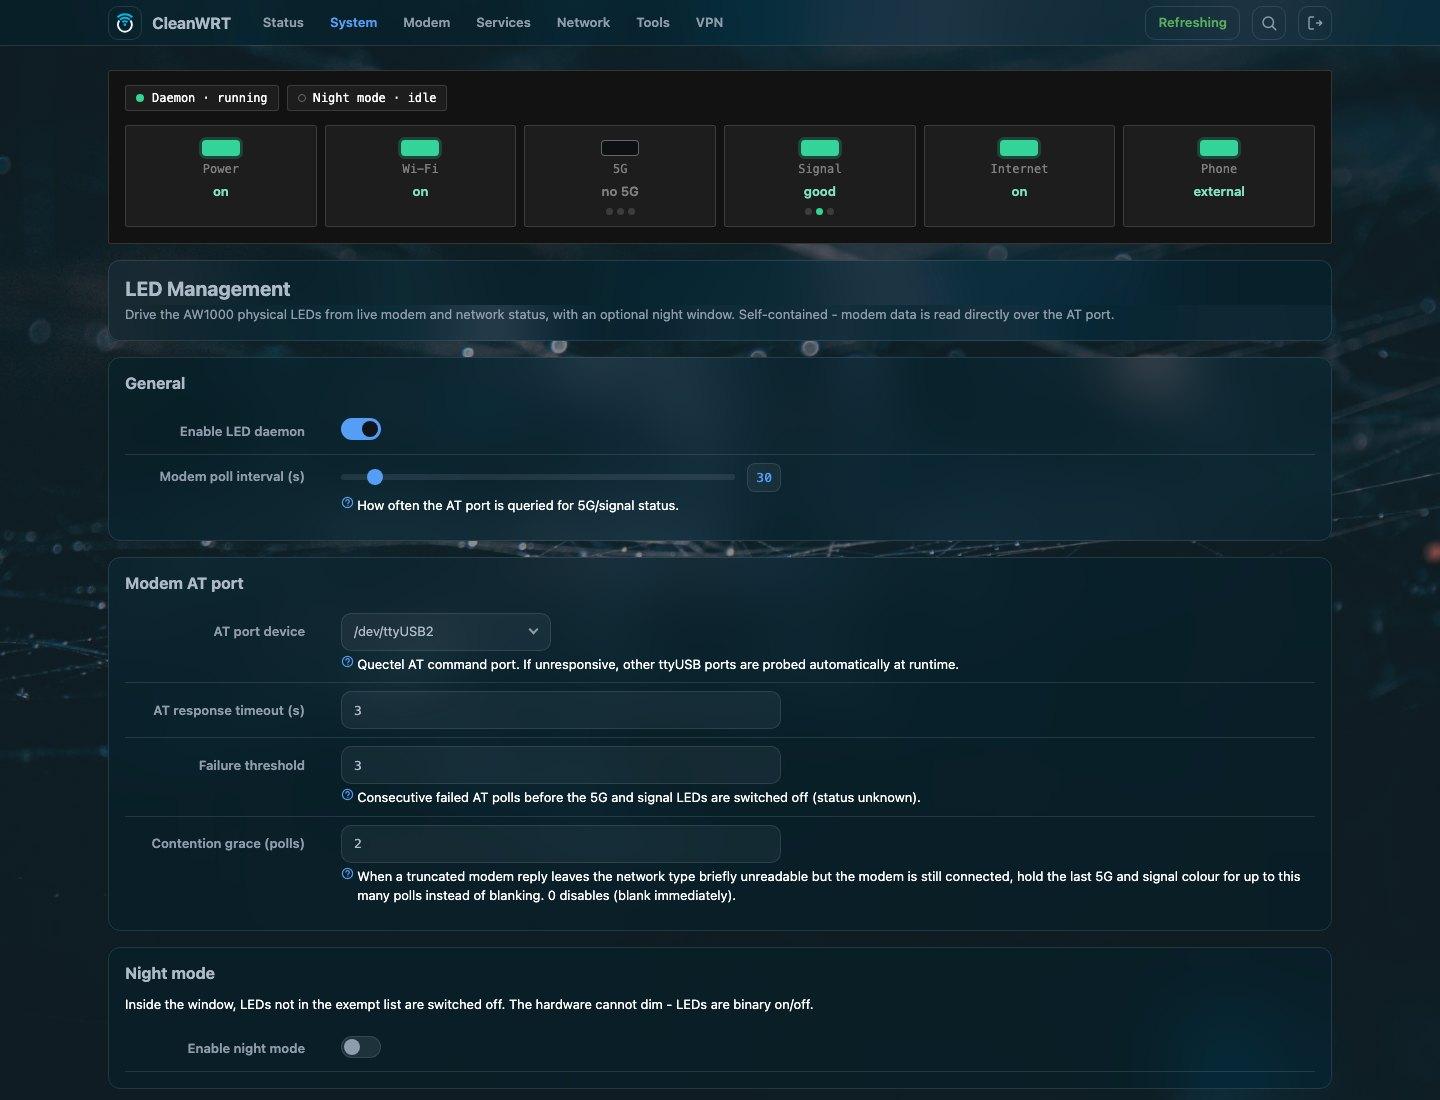
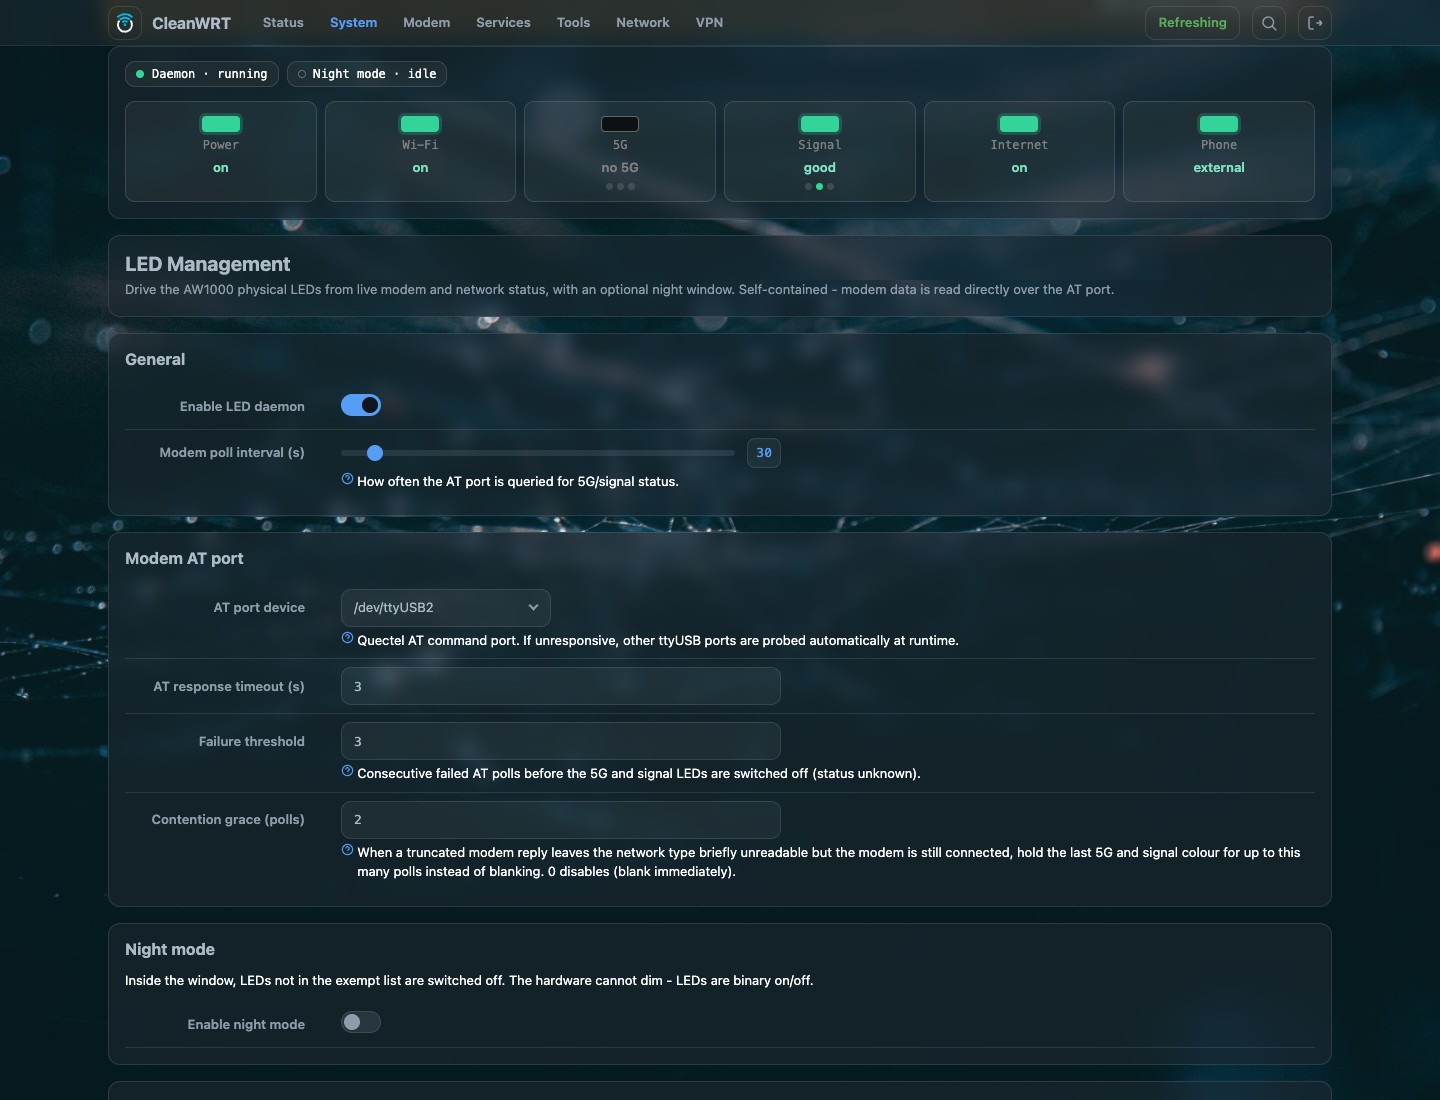
build: 25.12.5-R1, the first stable release of the 25.12.5 base (#21)
## What this is

`25.12.5-R1`, the first stable release of the OpenWrt 25.12.5 base. It
ships the package set
`25.12.5-rc2.1` shipped — AWvoice 1.1.3, `luci-app-cw-led` at the commit
that gives the LED page's
surfaces back to the theme — and changes two things in this repository.

| Commit | Change |
|---|---|
| `d6c922b` | the provenance bundle is packed under the directory name
its own checksums use, and the build unpacks it and re-checks those
lines before uploading |
| `71c7fc5` | the LED Management documentation picture is the page as
the released package draws it |
| `55ed7f7` | the version label, the release-stage table, the changelog
and every documentation page that names the current image |

## The packaging fix

`sha256sums.cw` lists the provenance files as
`cw-release-provenance/<name>`, while the release step
packed them into `provenance.tar.gz` under `provenance/`, so `sha256sum
-c sha256sums.cw` could never
be run against the bundle. The bundle now keeps the name the checksums
carry, and the build extracts
it again and verifies the `cw-release-provenance` lines itself — a
mismatch fails the job instead of
uploading a bundle that cannot be checked.

Reverted, the check reports the nine old-layout paths as missing and
exits non-zero; with the fix it
exits zero.

## Measurements behind the version change

- The flash fit line in `docs/mtd-layout.md` now says 514 blocks. That
is the shipped formula
[…]

diff --git a/tools/docs-hooks.py b/tools/docs-hooks.py
@@ -148,7 +148,7 @@ def on_post_page(output, page, config, **kwargs):
             "alternateName": ["CleanWRT for the Arcadyan AW1000", "AWvoice"],
             "applicationCategory": "OperatingSystem",
             "operatingSystem": "OpenWrt 25.12 on the Arcadyan AW1000 (qualcommax/ipq807x)",
-            "softwareVersion": "25.12.5-rc2",
+            "softwareVersion": "25.12.5-R1",
             "description": desc,
             "url": base,
             "image": image,

diff --git a/docs/mtd-layout.md b/docs/mtd-layout.md
@@ -29,12 +29,14 @@ partition uses exactly 316 (kernel 24 + rootfs 177 + rootfs_data 115).
 
 ## What CleanWRT needs
 
-The `25.12.5-rc2` image needs **498 blocks**, the same as rc1. That is more than the stock layout
-offers (316) and fits the expanded layout (2720 blocks on a router with a 701 MiB `rootfs`). The
-release build prints a line like this and fails if the image does not fit:
+The `25.12.5-R1` image needs **514 blocks**. The published `25.12.5-rc2.1` image measured the
+same 514 and `25.12.5-rc2` needed 498; R1 carries rc2.1's package set unchanged, so it needs what
+rc2.1 needed. That is more than the stock layout offers (316) and fits the expanded layout (2720
+blocks on a router with a 701 MiB `rootfs`). The release build prints a line like this and fails
+if the image does not fit the layout it targets:
 
 ```text
-UBI_PEBS volumes need 498 PEBs; stock 100 MiB layout (316): does NOT fit; gate layout=expanded (capacity 2720)
+UBI_PEBS volumes need 514 PEBs; stock 100 MiB layout (316): does NOT fit; gate layout=expanded (capacity 2720)
 ```
 
 A `sysupgrade` that cannot create the new volumes after removing the old ones can leave the
@@ -70,7 +72,7 @@ Next: [Recovery](recovery.md). Read it before you flash.
     Run `cat /proc/mtd` on a router that runs OpenWrt. The `rootfs` partition must be at least `0x08000000` (128 MiB). If it shows up as `rootfs_bak` instead, you have the stock layout, so do not flash this image.
 
 ??? question "Why does OpenWrt not fit on the stock AW1000 flash layout?"
-    The stock `rootfs` partition leaves 316 erase blocks for UBI volumes, and the CleanWRT image needs 498. The build checks this and fails if the image does not fit the layout it targets.
+    The stock `rootfs` partition leaves 316 erase blocks for UBI volumes, while a CleanWRT image needs over 500 (the current release measures 514). The build checks this and fails if the image does not fit the layout it targets.
 
 ??? question "Can I flash CleanWRT if my AW1000 has the stock layout?"
     No. CleanWRT does not convert the layout. Use a layout-conversion procedure from the OpenWrt community first, make sure you can reach the serial console, and only then install.

diff --git a/docs/changelog.md b/docs/changelog.md
@@ -5,6 +5,20 @@ description: "What is new in each CleanWRT release for the Arcadyan AW1000."
 
 # Changelog
 
+## 25.12.5-R1
+
+The first stable release of the OpenWrt 25.12.5 base. It carries everything `25.12.5-rc2.1`
+shipped — AWvoice 1.1.3 with the LAN SIP side, the web phone, the code a phone scans and quiet
+hours, Footstrap as the default look, Alpha and Argon alongside it, the phone bridge's working
+defaults and the vendor VoIP engine kept off the boot path — and adds two changes:
+
+- **the provenance bundle is verifiable**. `sha256sums.cw` names the bundle's files under
+  `cw-release-provenance/`, while the release step packed them as `provenance/`, so the checksums
+  could not be run against the bundle. The bundle now keeps the name the checksums use, and the
+  build unpacks it again and verifies those lines before anything is uploaded.
+- The LED Management picture in the documentation is the page as the released package draws it:
+  the live status strip takes its surface from the active theme and the form is LuCI's own.
+
 ## 25.12.5-rc2.1
 
 - **AWvoice 1.1.3** (rc2 shipped 1.1.2). The phone port gains its **SIP side**. A switch on the new

diff --git a/docs/awvoice.md b/docs/awvoice.md
@@ -7,12 +7,12 @@ description: "AWvoice turns the Arcadyan AW1000's RJ11 socket into a phone line.
 
 **AWvoice** turns the AW1000's RJ11 socket into a working phone line. Plug an ordinary desk
 phone into the router and make and take calls over the SIM card, with no extra box, no PBX and no
-SIP account. It is the headline feature of CleanWRT, and it ships with the `25.12.5-rc2`
+SIP account. It is the headline feature of CleanWRT, and it ships with the `25.12.5-R1`
 release, in the same way QModem is the 5G modem app.
 
-!!! info "Pre-release documentation"
-    CleanWRT is still a release-candidate series, so this page follows the current candidate.
-    Details, especially the setup steps, can change from one candidate to the next.
+!!! info "This page follows the current release"
+    The page describes `25.12.5-R1`. What changed in the earlier candidates is in the
+    [changelog](changelog.md), so a router still on one of them can read the page that fits it.
 
 ## What it does
 

diff --git a/README.md b/README.md
@@ -4,7 +4,7 @@
 
 <p align="center">
   <a href="https://pr0luci.github.io/cleanwrt-aw1000/docs/"><img alt="Documentation" src="https://img.shields.io/badge/docs-online-14b8a6?style=for-the-badge"></a>
-  <a href="https://github.com/Pr0Luci/cleanwrt-aw1000/releases"><img alt="Version" src="https://img.shields.io/badge/CleanWRT-25.12.5--rc2-14b8a6?style=for-the-badge"></a>
+  <a href="https://github.com/Pr0Luci/cleanwrt-aw1000/releases"><img alt="Version" src="https://img.shields.io/badge/CleanWRT-25.12.5--R1-14b8a6?style=for-the-badge"></a>
   <a href="LICENSE"><img alt="Licence" src="https://img.shields.io/github/license/Pr0Luci/cleanwrt-aw1000?style=for-the-badge&color=14b8a6"></a>
   <a href="https://github.com/Pr0Luci/cleanwrt-aw1000/actions/workflows/check.yml"><img alt="Checks" src="https://img.shields.io/github/actions/workflow/status/Pr0Luci/cleanwrt-aw1000/check.yml?style=for-the-badge&label=checks"></a>
 </p>

diff --git a/docs/index.md b/docs/index.md
@@ -106,8 +106,9 @@ router supported?" to a flashed, working router, and tell you how to get out if 
 
 ## Status
 
-CleanWRT is a release-candidate series (`25.12.5-rc2`). The image is built on GitHub Actions
-from the sources pinned in the repository. Read the [known limits](faq.md#known-limits)
+CleanWRT's current release is `25.12.5-R1`, the first stable release of the OpenWrt 25.12.5
+base; `rc1`, `rc2` and `rc2.1` were the candidates before it. The image is built on GitHub
+Actions from the sources pinned in the repository. Read the [known limits](faq.md#known-limits)
 before relying on it for anything important.
 
 ## Where to go next

diff --git a/docs/extra-packages.md b/docs/extra-packages.md
@@ -22,7 +22,7 @@ Packages you add yourself stay unpinned and are yours to manage.
 ## The optional CleanWRT feed (`cw-opt`)
 
 CleanWRT can publish its own signed `apk` feed for packages the official repositories do not
-carry, such as OpenClash. **The feed is not active in the `25.12.5-rc2` image**: the repository
+carry, such as OpenClash. **The feed is not active in the `25.12.5-R1` image**: the repository
 holds a disabled template, `files/etc/apk/repositories.d/cw-opt.list.disabled`, and the feed is
 switched on only when its index is published and its signing key exists.
 

diff --git a/docs/releases.md b/docs/releases.md
@@ -21,7 +21,8 @@ A version looks like `25.12.5-rc1`: the OpenWrt base (`25.12.5`) and the stage.
 |---|---|
 | `-rc1`, `-rc2` ... | release candidates. They are the testing series. |
 | `-rc1.1` ... | a fix after the candidate was published |
-| no suffix (`25.12.5`) | a stable release |
+| `-R1`, `-R2` ... | stable releases of the base. `-R1` is the first of them. |
+| no suffix (`25.12.5`) | reserved: a base update carries the new OpenWrt version |
 
 ## What a release contains
 
